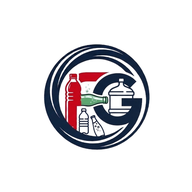
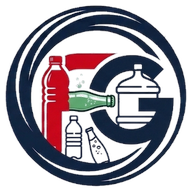
pwa: ikonlar sikilastirildi ve maskable ikon FG logosuyla yenilendi

diff --git a/index.html b/index.html
@@ -16,9 +16,9 @@
     <meta name="apple-mobile-web-app-status-bar-style" content="default" />
     <meta name="apple-mobile-web-app-title" content="Fırtına Gıda" />
     <link rel="manifest" href="/manifest.json" />
-    <link rel="icon" href="/favicon.ico" sizes="any" />
-    <link rel="icon" type="image/png" sizes="32x32" href="/favicon-32.png" />
-    <link rel="apple-touch-icon" sizes="180x180" href="/apple-touch-icon.png" />
+    <link rel="icon" href="/favicon.ico?v=2" sizes="any" />
+    <link rel="icon" type="image/png" sizes="32x32" href="/favicon-32.png?v=2" />
+    <link rel="apple-touch-icon" sizes="180x180" href="/apple-touch-icon.png?v=2" />
     <script>
       // Early capture of PWA beforeinstallprompt so it is never missed during hydration
       window.__PWA_PROMPT__ = null;

diff --git a/public/sw.js b/public/sw.js
@@ -1,5 +1,5 @@
 // Fırtına Gıda Service Worker
-const CACHE_NAME = 'sudagitim-cache-v6';
+const CACHE_NAME = 'sudagitim-cache-v7';
 const PRECACHE_ASSETS = [
   '/',
   '/index.html',
